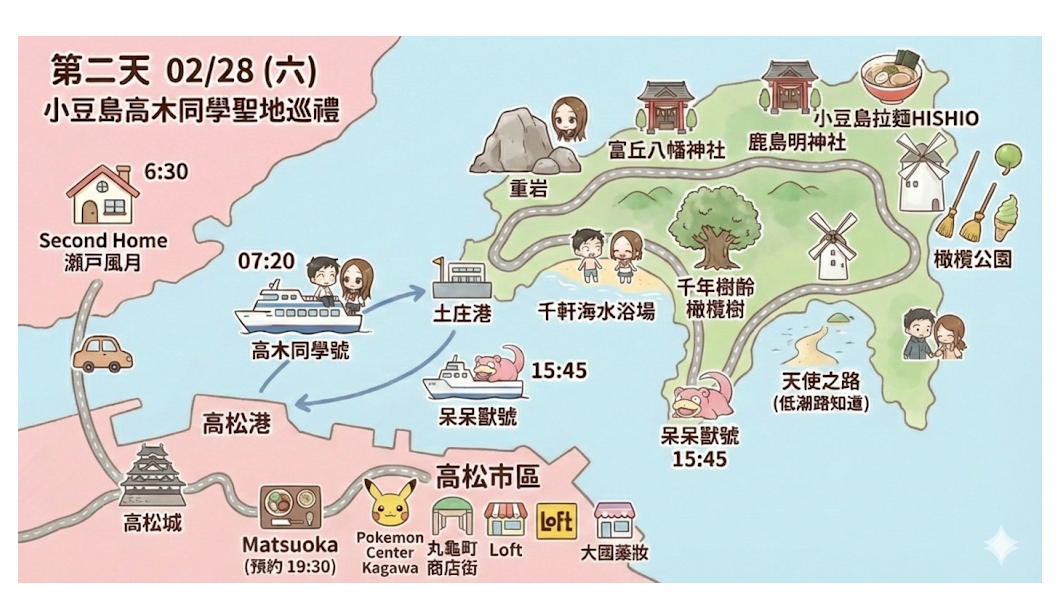
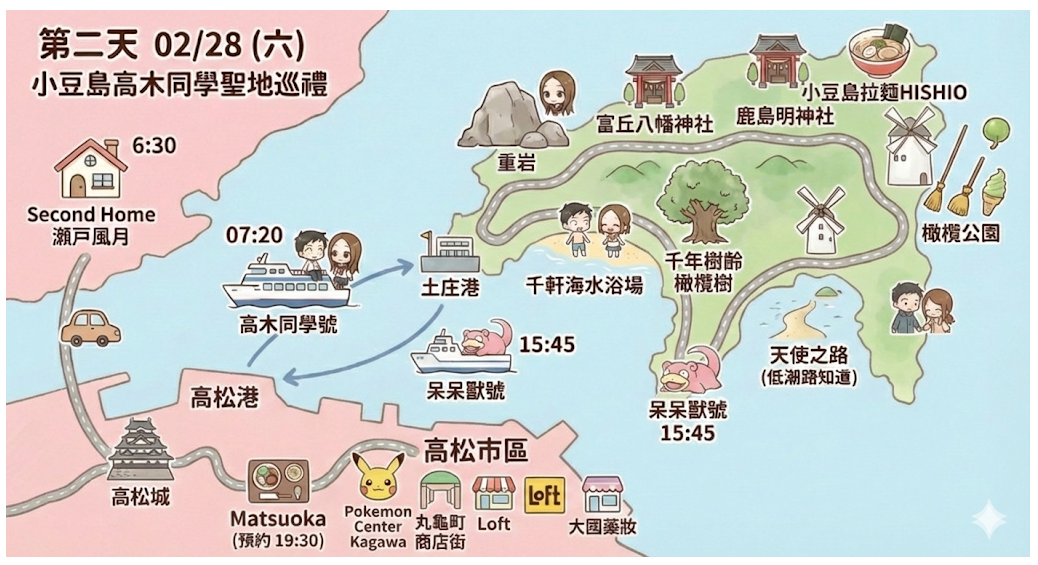
upada

diff --git a/index.html b/index.html
@@ -5278,7 +5278,7 @@ async function renderWeatherJMA(meta){
         ${(!eta && !addr && !parking && !mapcode) ? `
         <div class="meta-row">
           <span class="meta-ico">ℹ</span>
-          <span class="meta-val">（此行程尚未填：到達/地址/停車/Mapcode）</span>
+          <span class="meta-val"></span>
         </div>` : ''}
       </div>
       ${reserveBlock}
